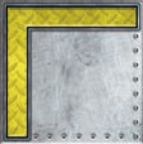
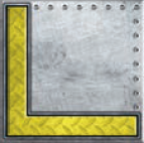
added CornerWall2.png. Oriented cornerWall.png correctly. The CornerWall now takes heading 2 into consideration.

diff --git a/src/main/java/dk/dtu/compute/se/pisd/roborally/model/BoardElements/Walls/CornerWall.java b/src/main/java/dk/dtu/compute/se/pisd/roborally/model/BoardElements/Walls/CornerWall.java
@@ -19,7 +19,12 @@ public class CornerWall extends BoardElement
         super(heading1, true, space);
         this.heading2 = heading2;
         space.board.addBoardElement(Board.NOT_ACTIVATE_ABLE_INDEX, this);
-        setImage(new Image("file:src/main/resources/images/cornerWall.png"));
+        if((heading1 == Heading.NORTH && heading2 == Heading.WEST)||(heading1 == Heading.EAST && heading2 == Heading.NORTH)||(heading1 == Heading.SOUTH && heading2 == Heading.EAST)||(heading1 == Heading.WEST && heading2 == Heading.SOUTH)) {
+            setImage(new Image("file:src/main/resources/images/cornerWall.png"));
+        }
+        else {
+            setImage(new Image("file:src/main/resources/images/cornerWall2.png"));
+        }
         this.setType(ElementsEnum.CORNERWALL);
 
     }
